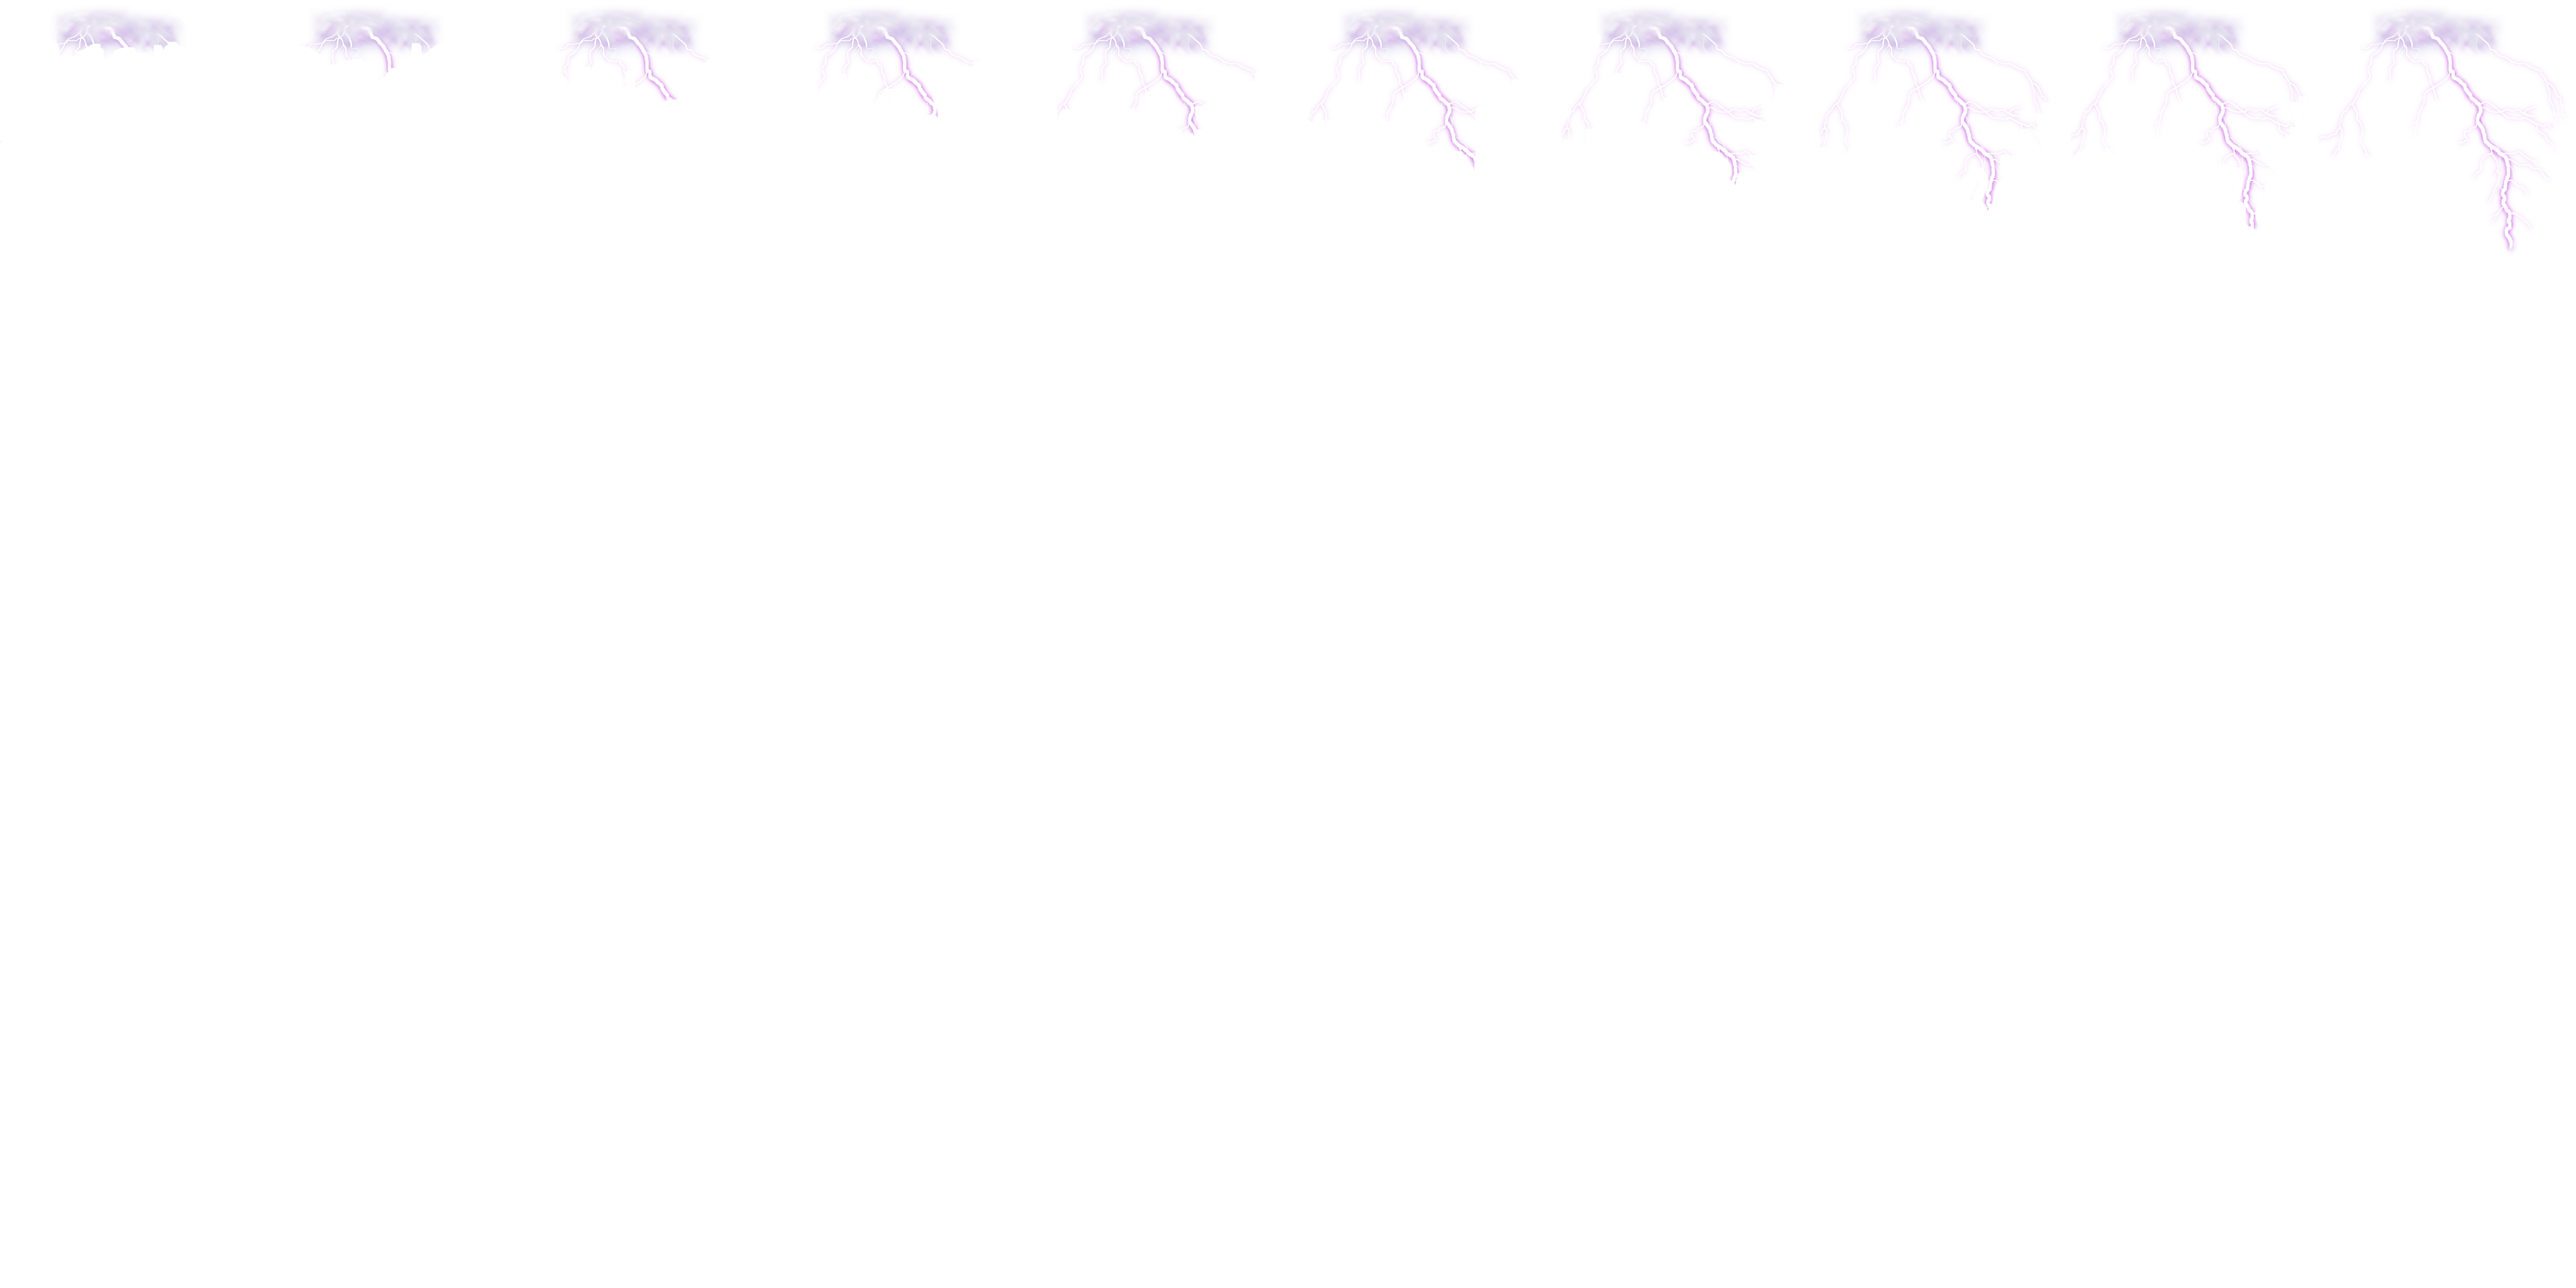
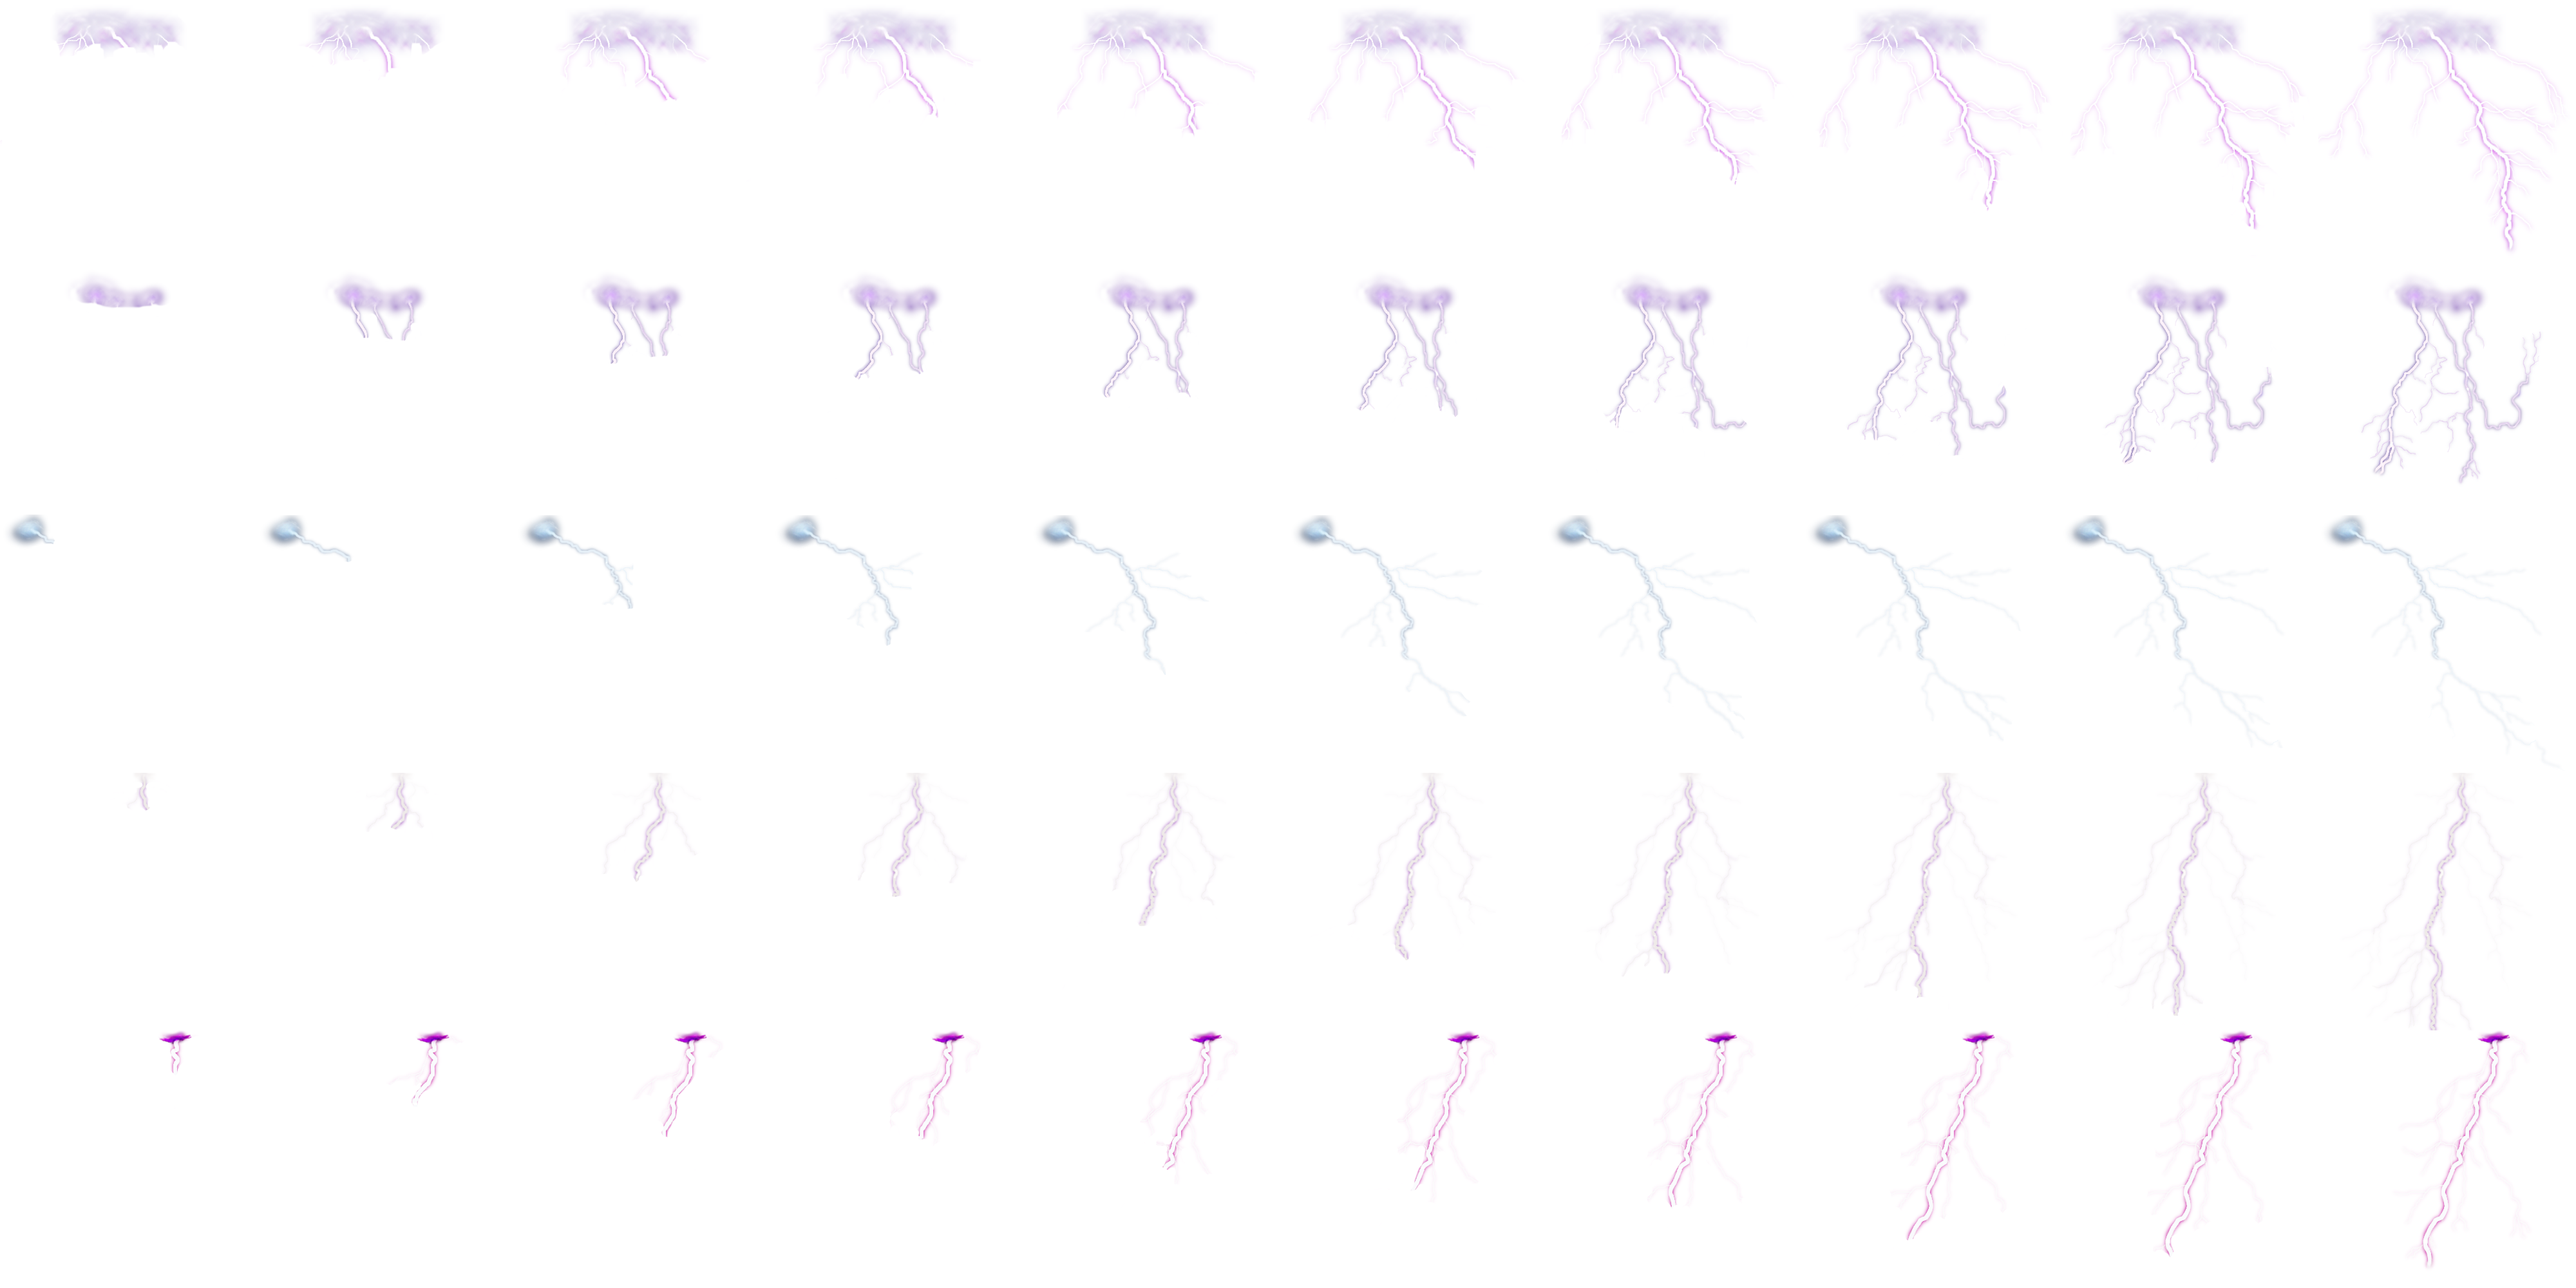
+files

diff --git a/BEEGPROMJECT/MainMenu.cpp b/BEEGPROMJECT/MainMenu.cpp
@@ -12,6 +12,8 @@ MainMenu::MainMenu() :
 	drawLight = true;
 	aClock.restart().asSeconds();
 	delayTimer.restart().asSeconds();
+	pak = false;
+	lDelay = float(std::rand() % 2 + 1);
 }
 
 MainMenu::~MainMenu()
@@ -28,7 +30,19 @@ void MainMenu::initialize()
 	CREDITS.setFunction([]() { std::cout << "CREDITS!" << std::endl; });
 	EXIT.setFunction([]() { exit(0); });
 
-	logo.setTexture(AssetManager::access()->getTexture("goat"));
+	pressanykey.setString("Press ENTER to continue...");
+	pressanykey.setFont(AssetManager::access()->getFont("sjbadjkw"));
+	pressanykey.setCharacterSize(40);
+	util::eUtil::centerOrigin(pressanykey);
+	pressanykey.setPosition(960.0f, 960.0f);
+
+	shadeoverlay.setSize(sf::Vector2f(1920, 1080));
+	shadeoverlay.setFillColor(sf::Color(0, 0, 0, 175));
+
+
+	bg.setTexture(AssetManager::access()->getTexture("mm_bg"));
+
+	logo.setTexture(AssetManager::access()->getTexture("Title"));
 	util::eUtil::centerOrigin(logo);
 	logo.setPosition(960.0f, 200.0f);
 
@@ -51,38 +65,48 @@ void MainMenu::eventHandler(sf::Event& event, const sf::RenderWindow& window)
 
 void MainMenu::update(float delTime)
 {
-	if (sf::Keyboard::isKeyPressed(sf::Keyboard::Numpad0)) currentAnimationState = 0;
-	if (sf::Keyboard::isKeyPressed(sf::Keyboard::Numpad1)) currentAnimationState = 1;
-	if (sf::Keyboard::isKeyPressed(sf::Keyboard::Numpad2)) currentAnimationState = 2;
 	
-	if (sf::Mouse::isButtonPressed(sf::Mouse::Left)) Test.play();
-
-	if (delayTimer.getElapsedTime().asSeconds() > 1.0f)
+	if (!pak)
+	{
+		if (sf::Keyboard::isKeyPressed(sf::Keyboard::Enter)) pak = true;
+	}
+	else
+	{
+		if (sf::Mouse::isButtonPressed(sf::Mouse::Left)) Test.play();
+	}
+	//std::cout << "dL : " << drawLight << std::endl;
+	if (delayTimer.getElapsedTime().asSeconds() > lDelay)
 	{
 		drawLight = true;
 		delayTimer.restart().asSeconds();
+		lDelay = float(std::rand() % 2 + 1);
 	}
-	
-	lAnima(0.02f);
 
-	//std::cout << "dL : " << drawLight << std::endl;
-	
+	lAnima(0.02f);
 
 }
 
 void MainMenu::draw(sf::RenderTarget& target)
 {
-	PLAY.render(target);
-	CREDITS.render(target);
-	EXIT.render(target);
+	target.draw(bg);
 	target.draw(logo);
-	target.draw(ligt);
+	if (drawLight) target.draw(ligt);
+
+	if (!pak) target.draw(pressanykey);
+	else
+	{
+		target.draw(shadeoverlay);
+		target.draw(logo);
+		PLAY.render(target);
+		CREDITS.render(target);
+		EXIT.render(target);
+	}
 }
 
 void MainMenu::lAnima(float switchTime)
 {
 	sf::IntRect rectTemp = ligt.getTextureRect();
-	rectTemp.top = animGroup * 400;
+	
 
 	if (rectTemp.left < 3600 && drawLight)
 	{
@@ -101,7 +125,7 @@ void MainMenu::lAnima(float switchTime)
 		int x = std::rand() % 1520 + 200;
 		int y = std::rand() % 140 + 200;
 		ligt.setPosition(x, y);
-		ligt.setTextureRect(sf::IntRect(0, 0, 400, 400));
+		ligt.setTextureRect(sf::IntRect(0, animGroup * 400, 400, 400));
 	}
 }
 

diff --git a/BEEGPROMJECT/AssetManager.cpp b/BEEGPROMJECT/AssetManager.cpp
@@ -24,9 +24,12 @@ void AssetManager::loadGlobalAssets()
 	//textures
 	loadTexture("texture_not_found", "data/images/NAtex.png");
 	loadTexture("logo", "data/images/goat.png");
+	loadTexture("Title", "data/images/Title.png");
 	loadTexture("testSprite", "data/images/testSprite.png");
 	loadTexture("creds", "data/images/creds.png");
 	loadTexture("lightning", "data/images/lightning.png");
+	loadTexture("mm_bg", "data/images/mainmenubg.png");
+	loadTexture("mm_h1", "data/images/h1.png");
 
 	//sfx
 	loadsfx("sfx_not_found", "data/audio/sfx/NAsfx.wav");

diff --git a/BEEGPROMJECT/MainMenu.hpp b/BEEGPROMJECT/MainMenu.hpp
@@ -21,8 +21,18 @@ public:
 private:
 	gui::Button PLAY, CREDITS, EXIT;
 
+	sf::Text pressanykey;
+	bool pak;
+
+	sf::RectangleShape shadeoverlay;
+
+
 	sf::Sprite logo;
 	sf::Sound Test;
+
+	sf::Sprite bg;
+
+	float lDelay;
 
 	sf::Sprite ligt;
 	int animGroup;
